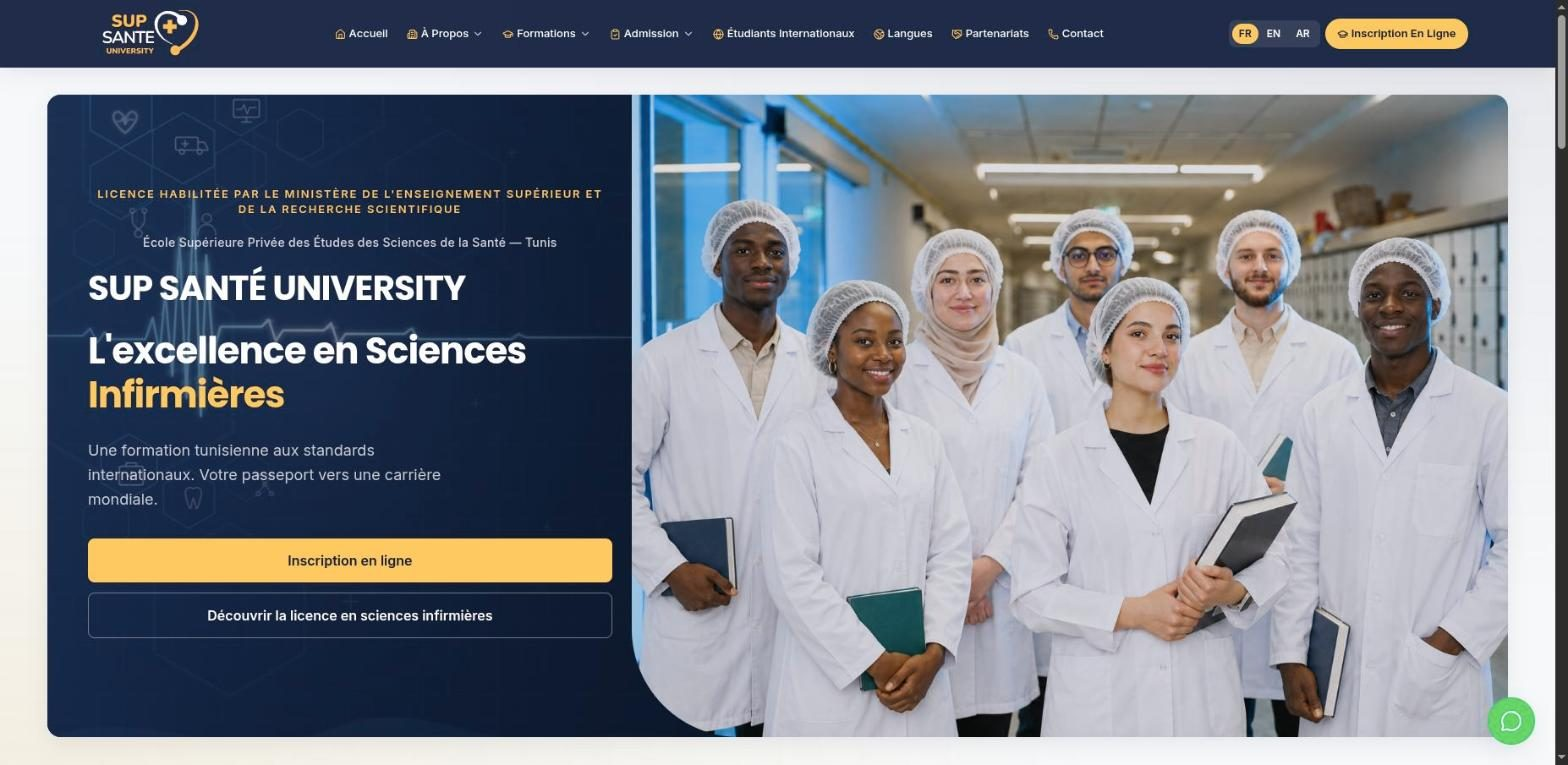
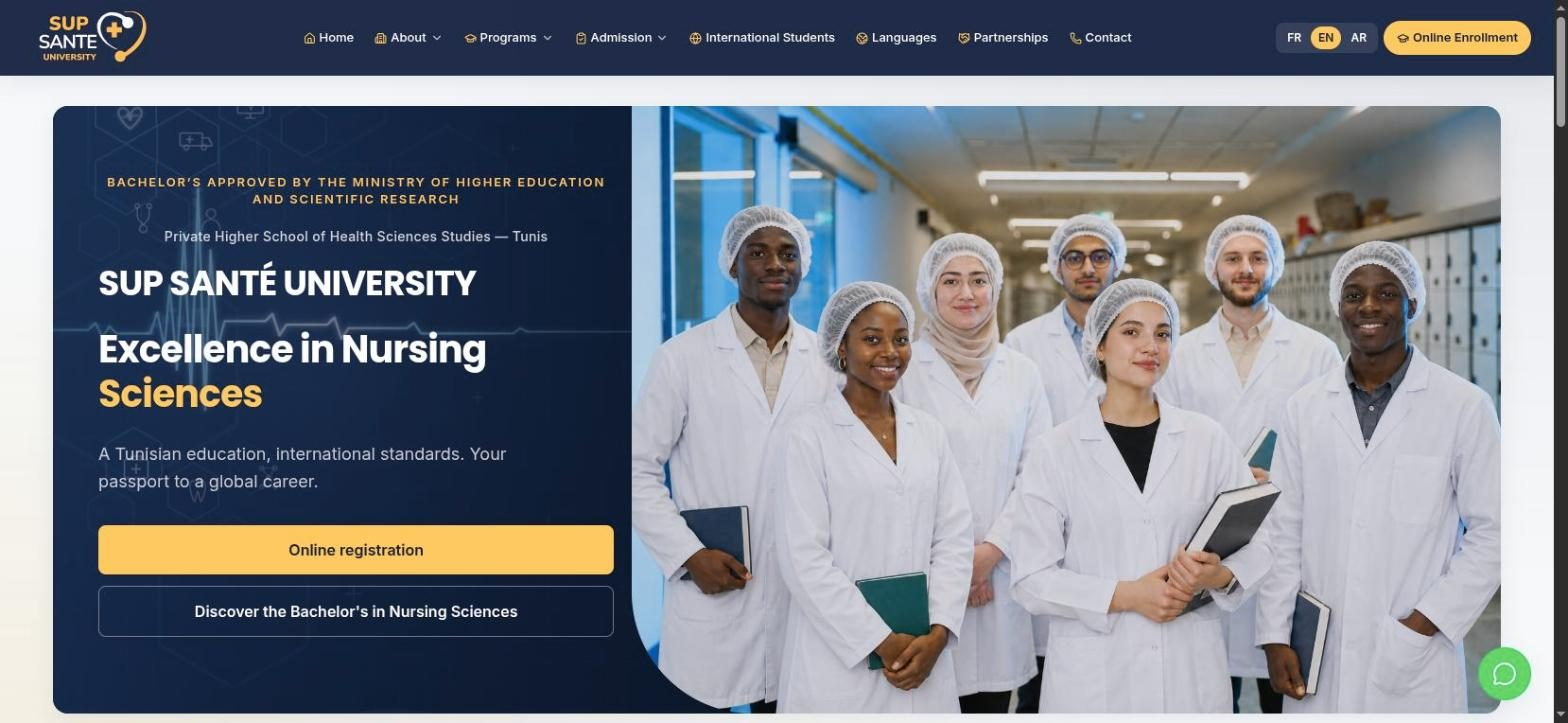
Deploy projects/supsante

diff --git a/projects/supsante/report/fr.html b/projects/supsante/report/fr.html
@@ -62,7 +62,7 @@ figcaption { padding: 10px 14px; color: var(--muted); font-size: 14px; }
   <p class="tagline">Le site et la plateforme d&#x27;admission d&#x27;une école privée de sciences infirmières : deux sites publics en français, anglais et arabe, une pré-inscription en ligne, un espace étudiant et un back-office d&#x27;admission.</p>
   <div class="facts"><div class="fact"><b>3</b><span>langues, dont l&#x27;arabe de droite à gauche</span></div><div class="fact"><b>2</b><span>sites publics : université et formation continue</span></div><div class="fact"><b>5</b><span>modules d&#x27;administration aux accès distincts</span></div><div class="fact"><b>12</b><span>modèles d&#x27;e-mails aux couleurs de l&#x27;école</span></div></div>
   <nav class="toc"><h2>Sommaire</h2><ol><li><a href="#s1">En bref</a></li><li><a href="#s2">Pour qui</a></li><li><a href="#s3">Le problème résolu</a></li><li><a href="#s4">Fonctionnalités principales</a></li><li><a href="#s5">Comment ça marche</a></li><li><a href="#s6">Technologies</a></li><li><a href="#s7">Aperçu</a></li><li><a href="#s8">Ce que ça apporte</a></li></ol></nav>
-  <section class="text"><h2 id="s1">En bref</h2><p>SupSanté est la plateforme web d&#x27;une école supérieure privée de sciences infirmières. Au départ simple site vitrine statique, elle est devenue une application complète qui couvre tout le cycle d&#x27;admission, de la première visite à la décision finale.</p><p>Une page d&#x27;entrée mène à deux sites publics : le site University pour la licence en sciences infirmières et l&#x27;Executive Education Center pour la formation continue des professionnels de santé. Les futurs étudiants se pré-inscrivent en ligne et déposent leurs documents, suivent leur dossier depuis un espace étudiant personnel, et l&#x27;équipe d&#x27;admission traite chaque dossier dans un back-office jusqu&#x27;à son acceptation ou son refus.</p><p>Tout le contenu public est disponible en français, anglais et arabe, la version arabe étant mise en page de droite à gauche, formulaires compris. Le site, l&#x27;espace étudiant et le back-office s&#x27;utilisent aussi sur mobile.</p></section><section><h2 id="s2">Pour qui</h2><div class="grid" style="--columns: 2"><div class="card"><h3>Futurs étudiants</h3><p>Découvrent l&#x27;école et ses formations dans leur langue, consultent les conditions d&#x27;admission et les bourses, et se pré-inscrivent en ligne.</p></div><div class="card"><h3>Candidats et étudiants</h3><p>Déposent les pièces demandées, suivent l&#x27;état de leur dossier et, une fois acceptés, consultent leur programme d&#x27;études.</p></div><div class="card"><h3>Équipe d&#x27;admission</h3><p>Examine les dossiers pièce par pièce, réclame les documents manquants, enregistre les décisions et prévient les candidats par e-mail.</p></div><div class="card"><h3>Direction de l&#x27;école</h3><p>Gère les comptes administrateurs et leurs accès, active ou désactive les sites publics, et suit les visites et les pré-inscriptions.</p></div></div></section><section><h2 id="s3">Le problème résolu</h2><div class="grid" style="--columns: 2"><div class="card"><h3>Un simple site vitrine</h3><p>Le site d&#x27;origine présentait l&#x27;école mais ne permettait pas de candidater. La pré-inscription et les pièces justificatives sont désormais recueillies en ligne, rattachées au dossier de chaque candidat.</p></div><div class="card"><h3>De la visibilité pour le candidat</h3><p>Un candidat a besoin de savoir où en est son dossier. L&#x27;espace étudiant affiche à tout moment son statut et l&#x27;état de chaque document.</p></div><div class="card"><h3>Un examen structuré</h3><p>Chaque dossier suit les mêmes étapes, de la vérification des pièces à une décision enregistrée, avec le bon e-mail envoyé au candidat à chaque étape.</p></div><div class="card"><h3>Une vision sur le site</h3><p>Les statistiques de visites et de formulaires sont intégrées au back-office : l&#x27;école voit comment les visiteurs deviennent candidats.</p></div></div></section><section><h2 id="s4">Fonctionnalités principales</h2><div class="list"><div class="card"><h3>Deux sites publics</h3><p>Un site University et un site Executive Education à l&#x27;identité propre, accessibles depuis une page d&#x27;entrée commune ; chacun peut être activé ou désactivé depuis le back-office.</p></div><div class="card"><h3>Trois langues</h3><p>Français, anglais et arabe sur toutes les pages publiques, avec une mise en page entièrement inversée en arabe.</p></div><div class="card"><h3>Pré-inscription en ligne</h3><p>Un formulaire guidé (identité, coordonnées, baccalauréat, formation choisie) avec dépôt de documents ; un compte est créé à partir du dossier.</p></div><div class="card"><h3>Espace étudiant</h3><p>Compte confirmé par un code reçu par e-mail, réinitialisation du mot de passe, profil, dépôt des pièces et suivi du statut du dossier.</p></div><div class="card"><h3>Programme d&#x27;études</h3><p>Une fois le dossier accepté, l&#x27;étudiant débloque son programme : 6 semestres et 180 crédits, avec les modules de chaque semestre.</p></div><div class="card"><h3>Back-office d&#x27;admission</h3><p>Liste des dossiers filtrable, examen de chaque document, alertes de pièce manquante, acceptation ou refus avec motif obligatoire, archivage et export Excel.</p></div><div class="card"><h3>Inscriptions en formation continue</h3><p>Les fiches de l&#x27;Executive Education Center sont traitées de la même façon, de la liste jusqu&#x27;à l&#x27;e-mail de décision.</p></div><div class="card"><h3>Administrateurs et accès</h3><p>Les administrateurs sont invités par e-mail et ne voient que les modules qui leur sont attribués ; la suppression d&#x27;un administrateur exige la validation d&#x27;une seconde personne, et chaque action est journalisée.</p></div><div class="card"><h3>Statistiques intégrées</h3><p>Visites, provenance du trafic, pages les plus vues, remplissage des formulaires et taux de conversion en pré-inscription, filtrables par période et par formation, exportables en Excel.</p></div><div class="card"><h3>Page légale modifiable</h3><p>La politique de confidentialité est rédigée dans un éditeur de texte riche du back-office et publiée sur les deux sites.</p></div></div></section><section><h2 id="s5">Comment ça marche</h2><div class="steps"><div class="step"><h3>Découvrir l&#x27;école</h3><p>Le visiteur parcourt le site University ou Executive Education en français, anglais ou arabe : formations, admission, bourses.</p></div><div class="step"><h3>Se pré-inscrire</h3><p>Il remplit le formulaire de pré-inscription ; un compte étudiant est créé et confirmé par un code envoyé par e-mail.</p></div><div class="step"><h3>Déposer les documents</h3><p>Dans son espace, il voit les pièces exigées pour sa formation, les dépose et soumet son dossier, qui se verrouille pour l&#x27;examen.</p></div><div class="step"><h3>Examen par l&#x27;école</h3><p>Un administrateur vérifie chaque document, le valide ou le rejette, et envoie une alerte si une pièce manque.</p></div><div class="step"><h3>Décision</h3><p>Le dossier est accepté, ou refusé avec un motif ; le candidat reçoit un e-mail dans les deux cas et le dossier peut être archivé.</p></div><div class="step"><h3>Début des études</h3><p>Une fois accepté, l&#x27;étudiant voit son programme se débloquer dans son espace, semestre par semestre.</p></div></div></section><section><h2 id="s6">Technologies</h2><div class="tech-group"><h3>Interface</h3><div class="tech"><div><b>Next.js et React</b><span>Servent les sites publics, l&#x27;espace étudiant et le back-office depuis une seule application web.</span></div><div><b>Tailwind CSS</b><span>Met en forme les pages, y compris la mise en page inversée de droite à gauche pour l&#x27;arabe.</span></div><div><b>next-intl</b><span>Gère les versions française, anglaise et arabe de chaque page.</span></div><div><b>React Hook Form et Zod</b><span>Animent les formulaires et contrôlent les saisies avant leur envoi.</span></div><div><b>TipTap</b><span>Éditeur de texte riche utilisé pour rédiger la politique de confidentialité.</span></div></div></div><div class="tech-group"><h3>Serveur et API</h3><div class="tech"><div><b>Node.js avec Express</b><span>Fournit l&#x27;API utilisée par les sites, l&#x27;espace étudiant et le back-office.</span></div><div><b>TypeScript</b><span>Utilisé côté interface comme côté serveur pour un code cohérent et vérifié.</span></div><div><b>Multer</b><span>Réceptionne les documents déposés par les candidats (PDF et images).</span></div></div></div><div class="tech-group"><h3>Données</h3><div class="tech"><div><b>MySQL</b><span>Stocke les comptes, dossiers, documents, programmes, journaux d&#x27;administration et statistiques de visite.</span></div><div><b>Sequelize</b><span>Fait le lien entre les données de l&#x27;application et la base.</span></div></div></div><div class="tech-group"><h3>E-mails et exports</h3><div class="tech"><div><b>Nodemailer</b><span>Envoie les e-mails aux couleurs de l&#x27;école : codes de vérification, accusés de réception, alertes et décisions.</span></div><div><b>ExcelJS</b><span>Produit les exports Excel des dossiers et des statistiques.</span></div></div></div><div class="tech-group"><h3>Sécurité</h3><div class="tech"><div><b>Jetons JWT en cookies</b><span>Maintiennent la connexion des étudiants et des administrateurs, avec des droits vérifiés à chaque requête.</span></div><div><b>bcrypt</b><span>Protège les mots de passe enregistrés.</span></div><div><b>Helmet et limitation de débit</b><span>Ajoutent les protections web courantes et limitent les requêtes répétées.</span></div></div></div></section><section><h2 id="s7">Aperçu</h2><div class="gallery" style="--columns: 2"><figure><img src="../screens/01.jpg" alt="Accueil du site University, avec choix de la langue et inscription en ligne." loading="lazy"><figcaption>Accueil du site University, avec choix de la langue et inscription en ligne.</figcaption></figure><figure><img src="../screens/02.jpg" alt="Espace étudiant : pièces déposées, en attente de vérification." loading="lazy"><figcaption>Espace étudiant : pièces déposées, en attente de vérification.</figcaption></figure><figure><img src="../screens/03.jpg" alt="Back-office : validation de chaque document avant la décision." loading="lazy"><figcaption>Back-office : validation de chaque document avant la décision.</figcaption></figure><figure><img src="../screens/07.jpg" alt="Statistiques intégrées : visites et indicateurs de pré-inscription." loading="lazy"><figcaption>Statistiques intégrées : visites et indicateurs de pré-inscription.</figcaption></figure></div></section><section><h2 id="s8">Ce que ça apporte</h2><div class="grid" style="--columns: 3"><div class="card"><h3>Un seul parcours d&#x27;admission</h3><p>De la première visite à la décision, chaque étape se déroule sur la même plateforme, avec un statut clair pour chaque dossier.</p></div><div class="card"><h3>De la clarté pour les candidats</h3><p>Le candidat sait quelles pièces sont attendues, ce qui manque et où en est son dossier, dans sa propre langue.</p></div><div class="card"><h3>Moins de travail manuel</h3><p>L&#x27;examen des pièces, les relances et les e-mails de décision se font en quelques clics au lieu de messages séparés.</p></div><div class="card"><h3>Une administration encadrée</h3><p>Accès par module, suppression d&#x27;un administrateur à deux personnes et journal des actions rendent le back-office traçable.</p></div><div class="card"><h3>Des données propres à l&#x27;école</h3><p>Les statistiques de visite et de conversion sont collectées par la plateforme elle-même, sans outil d&#x27;analyse externe.</p></div></div></section>
+  <section class="text"><h2 id="s1">En bref</h2><p>SupSanté est la plateforme web d&#x27;une école supérieure privée de sciences infirmières. Au départ simple site vitrine statique, elle est devenue une application complète qui couvre tout le cycle d&#x27;admission, de la première visite à la décision finale.</p><p>Une page d&#x27;entrée mène à deux sites publics : le site University pour la licence en sciences infirmières et l&#x27;Executive Education Center pour la formation continue des professionnels de santé. Les futurs étudiants se pré-inscrivent en ligne et déposent leurs documents, suivent leur dossier depuis un espace étudiant personnel, et l&#x27;équipe d&#x27;admission traite chaque dossier dans un back-office jusqu&#x27;à son acceptation ou son refus.</p><p>Tout le contenu public est disponible en français, anglais et arabe, la version arabe étant mise en page de droite à gauche, formulaires compris. Le site, l&#x27;espace étudiant et le back-office s&#x27;utilisent aussi sur mobile.</p></section><section><h2 id="s2">Pour qui</h2><div class="grid" style="--columns: 2"><div class="card"><h3>Futurs étudiants</h3><p>Découvrent l&#x27;école et ses formations dans leur langue, consultent les conditions d&#x27;admission et les bourses, et se pré-inscrivent en ligne.</p></div><div class="card"><h3>Candidats et étudiants</h3><p>Déposent les pièces demandées, suivent l&#x27;état de leur dossier et, une fois acceptés, consultent leur programme d&#x27;études.</p></div><div class="card"><h3>Équipe d&#x27;admission</h3><p>Examine les dossiers pièce par pièce, réclame les documents manquants, enregistre les décisions et prévient les candidats par e-mail.</p></div><div class="card"><h3>Direction de l&#x27;école</h3><p>Gère les comptes administrateurs et leurs accès, active ou désactive les sites publics, et suit les visites et les pré-inscriptions.</p></div></div></section><section><h2 id="s3">Le problème résolu</h2><div class="grid" style="--columns: 2"><div class="card"><h3>Un simple site vitrine</h3><p>Le site d&#x27;origine présentait l&#x27;école mais ne permettait pas de candidater. La pré-inscription et les pièces justificatives sont désormais recueillies en ligne, rattachées au dossier de chaque candidat.</p></div><div class="card"><h3>De la visibilité pour le candidat</h3><p>Un candidat a besoin de savoir où en est son dossier. L&#x27;espace étudiant affiche à tout moment son statut et l&#x27;état de chaque document.</p></div><div class="card"><h3>Un examen structuré</h3><p>Chaque dossier suit les mêmes étapes, de la vérification des pièces à une décision enregistrée, avec le bon e-mail envoyé au candidat à chaque étape.</p></div><div class="card"><h3>Une vision sur le site</h3><p>Les statistiques de visites et de formulaires sont intégrées au back-office : l&#x27;école voit comment les visiteurs deviennent candidats.</p></div></div></section><section><h2 id="s4">Fonctionnalités principales</h2><div class="list"><div class="card"><h3>Deux sites publics</h3><p>Un site University et un site Executive Education à l&#x27;identité propre, accessibles depuis une page d&#x27;entrée commune ; chacun peut être activé ou désactivé depuis le back-office.</p></div><div class="card"><h3>Trois langues</h3><p>Français, anglais et arabe sur toutes les pages publiques, avec une mise en page entièrement inversée en arabe.</p></div><div class="card"><h3>Pré-inscription en ligne</h3><p>Un formulaire guidé (identité, coordonnées, baccalauréat, formation choisie) avec dépôt de documents ; un compte est créé à partir du dossier.</p></div><div class="card"><h3>Espace étudiant</h3><p>Compte confirmé par un code reçu par e-mail, réinitialisation du mot de passe, profil, dépôt des pièces et suivi du statut du dossier.</p></div><div class="card"><h3>Programme d&#x27;études</h3><p>Une fois le dossier accepté, l&#x27;étudiant débloque son programme : 6 semestres et 180 crédits, avec les modules de chaque semestre.</p></div><div class="card"><h3>Back-office d&#x27;admission</h3><p>Liste des dossiers filtrable, examen de chaque document, alertes de pièce manquante, acceptation ou refus avec motif obligatoire, archivage et export Excel.</p></div><div class="card"><h3>Inscriptions en formation continue</h3><p>Les fiches de l&#x27;Executive Education Center sont traitées de la même façon, de la liste jusqu&#x27;à l&#x27;e-mail de décision.</p></div><div class="card"><h3>Administrateurs et accès</h3><p>Les administrateurs sont invités par e-mail et ne voient que les modules qui leur sont attribués ; la suppression d&#x27;un administrateur exige la validation d&#x27;une seconde personne, et chaque action est journalisée.</p></div><div class="card"><h3>Statistiques intégrées</h3><p>Visites, provenance du trafic, pages les plus vues, remplissage des formulaires et taux de conversion en pré-inscription, filtrables par période et par formation, exportables en Excel.</p></div><div class="card"><h3>Page légale modifiable</h3><p>La politique de confidentialité est rédigée dans un éditeur de texte riche du back-office et publiée sur les deux sites.</p></div></div></section><section><h2 id="s5">Comment ça marche</h2><div class="steps"><div class="step"><h3>Découvrir l&#x27;école</h3><p>Le visiteur parcourt le site University ou Executive Education en français, anglais ou arabe : formations, admission, bourses.</p></div><div class="step"><h3>Se pré-inscrire</h3><p>Il remplit le formulaire de pré-inscription ; un compte étudiant est créé et confirmé par un code envoyé par e-mail.</p></div><div class="step"><h3>Déposer les documents</h3><p>Dans son espace, il voit les pièces exigées pour sa formation, les dépose et soumet son dossier, qui se verrouille pour l&#x27;examen.</p></div><div class="step"><h3>Examen par l&#x27;école</h3><p>Un administrateur vérifie chaque document, le valide ou le rejette, et envoie une alerte si une pièce manque.</p></div><div class="step"><h3>Décision</h3><p>Le dossier est accepté, ou refusé avec un motif ; le candidat reçoit un e-mail dans les deux cas et le dossier peut être archivé.</p></div><div class="step"><h3>Début des études</h3><p>Une fois accepté, l&#x27;étudiant voit son programme se débloquer dans son espace, semestre par semestre.</p></div></div></section><section><h2 id="s6">Technologies</h2><div class="tech-group"><h3>Interface</h3><div class="tech"><div><b>Next.js et React</b><span>Servent les sites publics, l&#x27;espace étudiant et le back-office depuis une seule application web.</span></div><div><b>Tailwind CSS</b><span>Met en forme les pages, y compris la mise en page inversée de droite à gauche pour l&#x27;arabe.</span></div><div><b>next-intl</b><span>Gère les versions française, anglaise et arabe de chaque page.</span></div><div><b>React Hook Form et Zod</b><span>Animent les formulaires et contrôlent les saisies avant leur envoi.</span></div><div><b>TipTap</b><span>Éditeur de texte riche utilisé pour rédiger la politique de confidentialité.</span></div></div></div><div class="tech-group"><h3>Serveur et API</h3><div class="tech"><div><b>Node.js avec Express</b><span>Fournit l&#x27;API utilisée par les sites, l&#x27;espace étudiant et le back-office.</span></div><div><b>TypeScript</b><span>Utilisé côté interface comme côté serveur pour un code cohérent et vérifié.</span></div><div><b>Multer</b><span>Réceptionne les documents déposés par les candidats (PDF et images).</span></div></div></div><div class="tech-group"><h3>Données</h3><div class="tech"><div><b>MySQL</b><span>Stocke les comptes, dossiers, documents, programmes, journaux d&#x27;administration et statistiques de visite.</span></div><div><b>Sequelize</b><span>Fait le lien entre les données de l&#x27;application et la base.</span></div></div></div><div class="tech-group"><h3>E-mails et exports</h3><div class="tech"><div><b>Nodemailer</b><span>Envoie les e-mails aux couleurs de l&#x27;école : codes de vérification, accusés de réception, alertes et décisions.</span></div><div><b>ExcelJS</b><span>Produit les exports Excel des dossiers et des statistiques.</span></div></div></div><div class="tech-group"><h3>Sécurité</h3><div class="tech"><div><b>Jetons JWT en cookies</b><span>Maintiennent la connexion des étudiants et des administrateurs, avec des droits vérifiés à chaque requête.</span></div><div><b>bcrypt</b><span>Protège les mots de passe enregistrés.</span></div><div><b>Helmet et limitation de débit</b><span>Ajoutent les protections web courantes et limitent les requêtes répétées.</span></div></div></div></section><section><h2 id="s7">Aperçu</h2><div class="gallery" style="--columns: 2"><figure><img src="../screens/01-fr.jpg" alt="Accueil du site University, avec choix de la langue et inscription en ligne." loading="lazy"><figcaption>Accueil du site University, avec choix de la langue et inscription en ligne.</figcaption></figure><figure><img src="../screens/02.jpg" alt="Espace étudiant : pièces déposées, en attente de vérification." loading="lazy"><figcaption>Espace étudiant : pièces déposées, en attente de vérification.</figcaption></figure><figure><img src="../screens/03.jpg" alt="Back-office : validation de chaque document avant la décision." loading="lazy"><figcaption>Back-office : validation de chaque document avant la décision.</figcaption></figure><figure><img src="../screens/07.jpg" alt="Statistiques intégrées : visites et indicateurs de pré-inscription." loading="lazy"><figcaption>Statistiques intégrées : visites et indicateurs de pré-inscription.</figcaption></figure></div></section><section><h2 id="s8">Ce que ça apporte</h2><div class="grid" style="--columns: 3"><div class="card"><h3>Un seul parcours d&#x27;admission</h3><p>De la première visite à la décision, chaque étape se déroule sur la même plateforme, avec un statut clair pour chaque dossier.</p></div><div class="card"><h3>De la clarté pour les candidats</h3><p>Le candidat sait quelles pièces sont attendues, ce qui manque et où en est son dossier, dans sa propre langue.</p></div><div class="card"><h3>Moins de travail manuel</h3><p>L&#x27;examen des pièces, les relances et les e-mails de décision se font en quelques clics au lieu de messages séparés.</p></div><div class="card"><h3>Une administration encadrée</h3><p>Accès par module, suppression d&#x27;un administrateur à deux personnes et journal des actions rendent le back-office traçable.</p></div><div class="card"><h3>Des données propres à l&#x27;école</h3><p>Les statistiques de visite et de conversion sont collectées par la plateforme elle-même, sans outil d&#x27;analyse externe.</p></div></div></section>
 </main>
 </body>
 </html>
